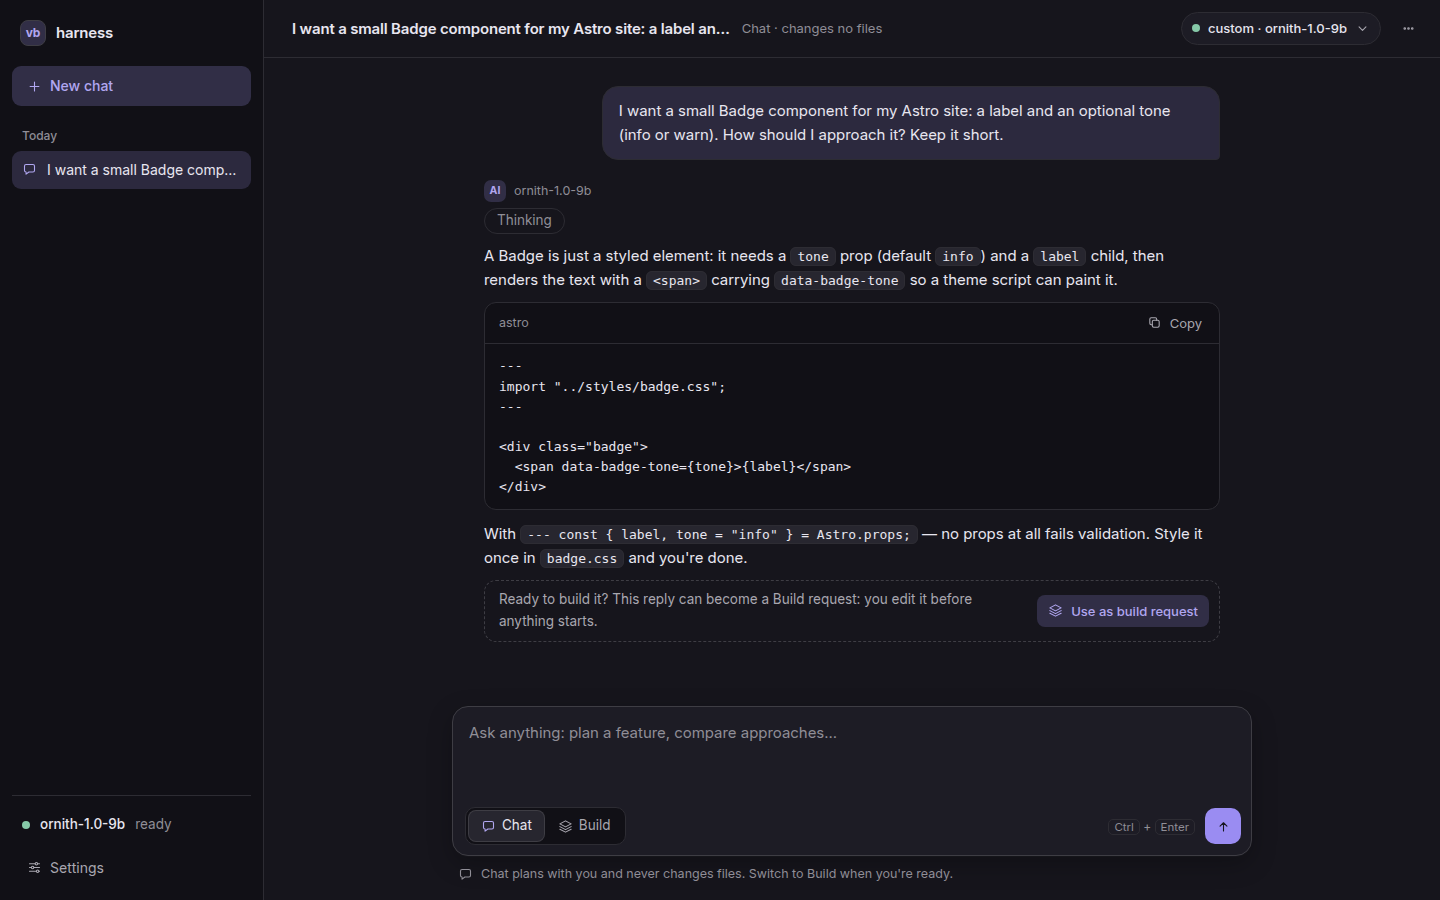
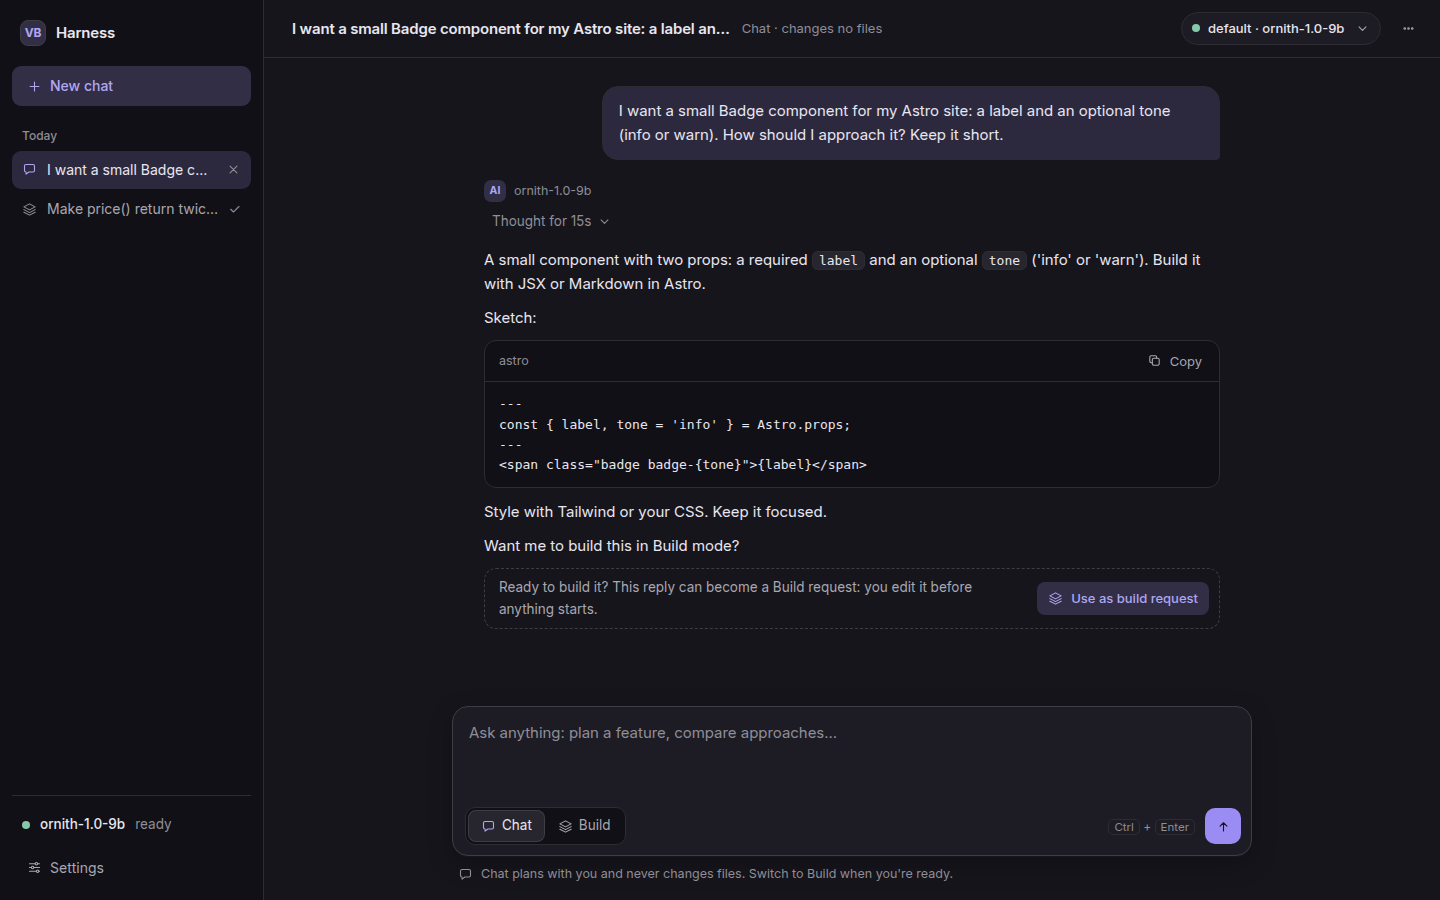
docs: retake the Models and Chat screenshots with the VB Harness name
Models shows the probed abilities of the local model in use; Chat shows a reply with its thinking folded under 'Thought for 15s'. The Chat caption says so.

diff --git a/README.md b/README.md
@@ -175,7 +175,7 @@ working sit at the bottom of the sidebar, next to **Settings**.
    the reply, and a click opens the whole thought process so you can judge how it got there. Chat changes no files. **Use as build request** under a reply copies it into the text box in
    Build mode, for you to edit and send: nothing starts until you do.
 
-   ![A planning chat: asked about a Badge component for an Astro site, the local model replies with an approach and a sketch of the component; under the reply, Use as build request](docs/media/app-chat.png)
+   ![A planning chat: asked about a Badge component for an Astro site, the local model thought for 15 seconds (folded under "Thought for 15s") and replies with an approach and a sketch of the component; under the reply, Use as build request](docs/media/app-chat.png)
 3. **Build.** Switch the text box to **Build**, pick a project (or **Add project**), describe the feature, and choose
    **Start build**. The line under the text box says what will happen, or what stops the build (uncommitted changes,
    a project with a problem). A live card in the chat shows the run:
